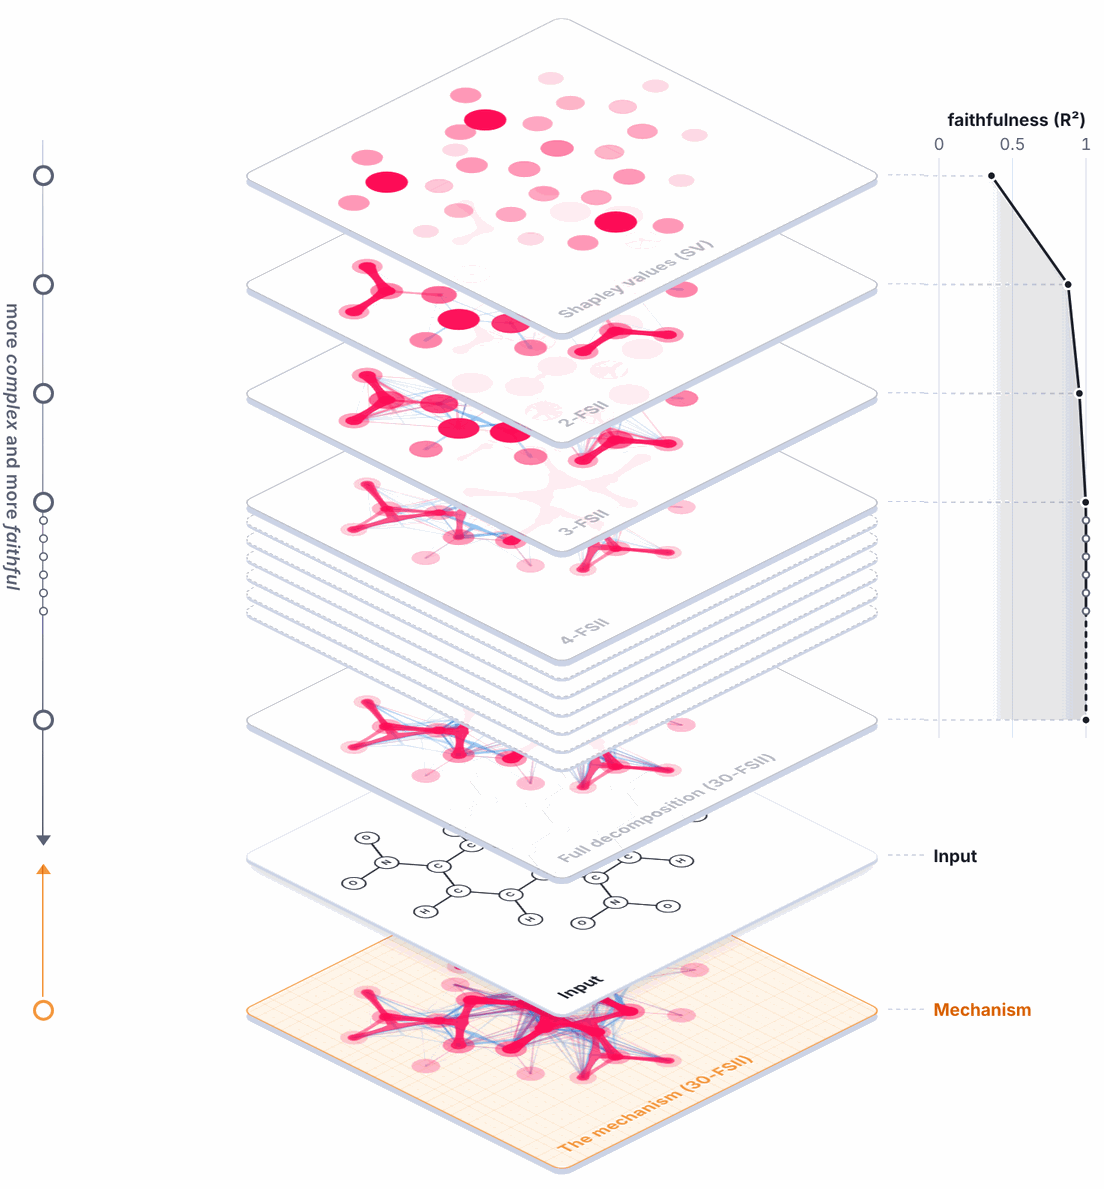
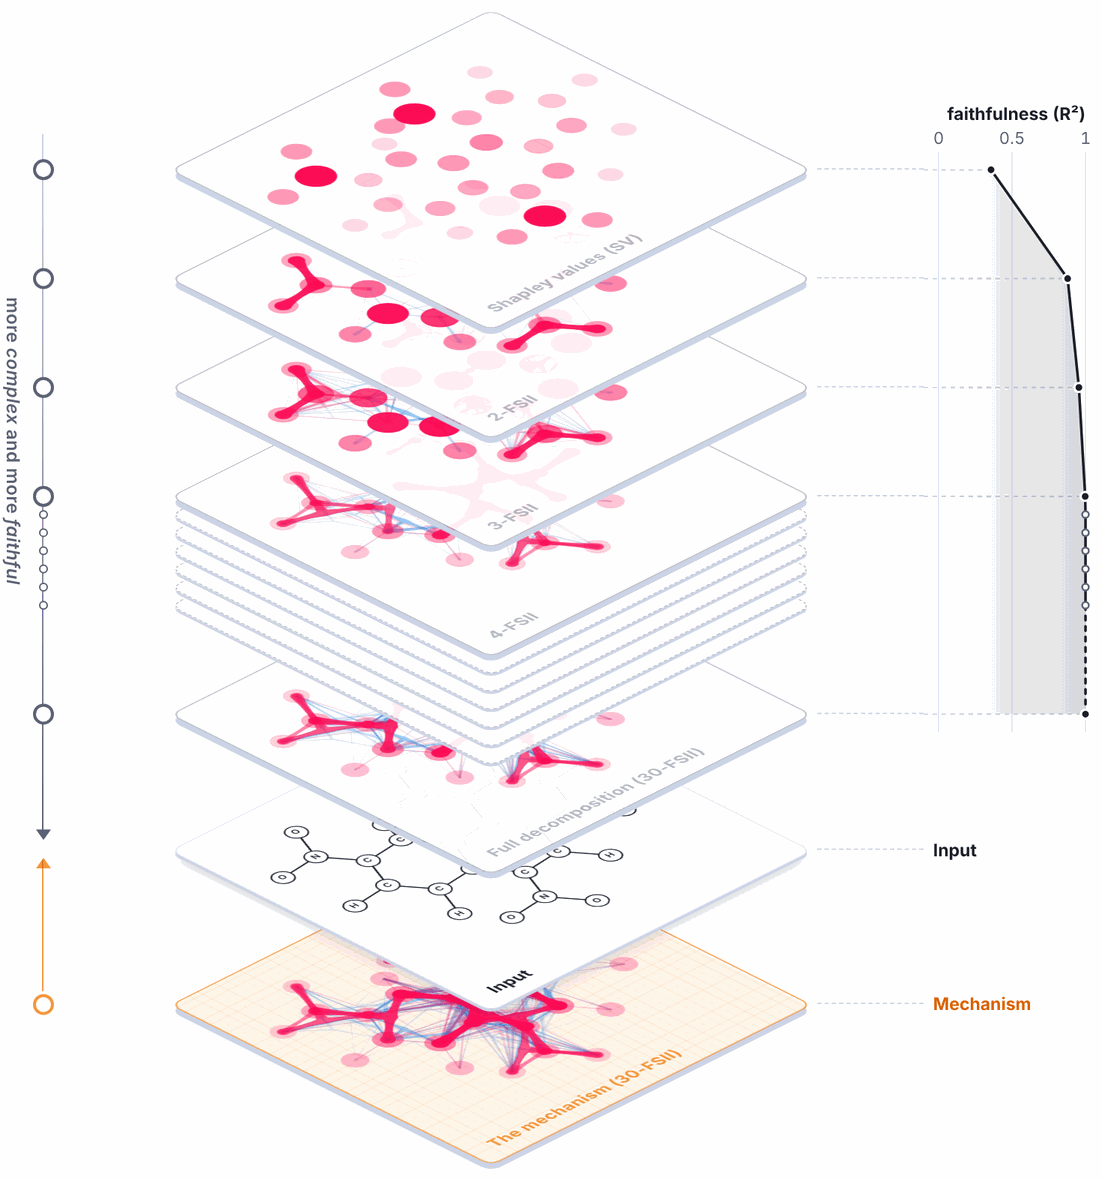
Make the projected view the default; name the layer pointed at in ink
The orders demo now shows the projected view by default: the layers lie
on the input's card until explained, then float, and the one pointed at
casts its explanation onto the input. The slide-out view stays, as
data-view="unfolded". The fallback image shows the projected view.

The layer pointed at writes its name in ink, as the input does (the
mechanism's in its orange), not in the layers' faint gray.

Claude-Session: https://claude.ai/code/session_019qiuyEoqTxUYBXqUZ7PZqM

diff --git a/docs/source/demos/orders/assets/demo.js b/docs/source/demos/orders/assets/demo.js
@@ -26,14 +26,14 @@
 // depth, the network's receptive field, the proxy's depth) all equal it. The explanations are
 // precomputed (../compute) into data.js.
 //
-// Two views (data-view on the demo). Unfolded (the default, as the docs show it), the layers float
-// apart, and pointing at one (hover, keyboard focus on its row, a tap that pins it, or the slider
-// left of the layers) slides it out to the side as it lies, under the layers above it; the card
-// slides out too, pointed at. Projected ("projected"), the layers lie on the card at rest (the top
-// one showing, on the input), the mechanism hidden under it; once explained and in view (or after a
-// tap), they unfold, for good, and the layer pointed at stays where it floats and casts its light
-// onto the card, which wears its marks (the mechanism's rises to it, a box of orange light). In
-// both, the others fade; a ring marks the order pointed at on the plot, and pointing along the plot
+// Two views (data-view on the demo). Projected (the default, as the docs show it), the layers lie on
+// the card at rest (the top one showing, on the input), the mechanism hidden under it; once
+// explained and in view (or after a tap), they unfold, for good, and the layer pointed at (hover,
+// keyboard focus on its row, a tap that pins it, or the slider left of the layers) stays where it
+// floats and casts its light onto the card, which wears its marks (the mechanism's rises to it, a
+// box of orange light), and its name darkens. Unfolded ("unfolded"), the layers float apart, and
+// pointing at one slides it out to the side as it lies, under the layers above it. In both, the
+// others fade; a ring marks the order pointed at on the plot, and pointing along the plot
 // brings out the layer of an order, or the blank layer of an order between, which peeks out. The
 // slider is an arrow down the side of the layers, a circle at every one, through the explanations:
 // they grow more complex, and more faithful, from order to order; below the input, the mechanism's
@@ -628,11 +628,11 @@
     const plotId = ++plots;
     // the views (data-view), both of floating layers: the input on a card, the explanations on
     // layers above it, and below the card, apart from the full decomposition, the mechanism they
-    // explain. Unfolded (the default, as the docs show it), the layers float apart, and the one
-    // pointed at (or the input's card) slides out to the side. Projected ("projected"), they lie on
-    // the card at rest, the mechanism hidden under it, and unfold, float off it, once explained (or
-    // after a tap on the card), or while a layer is pointed at, which casts its marks onto the card
-    const projecting = () => root.dataset.view === "projected";
+    // explain. Projected (the default, as the docs show it), they lie on the card at rest, the
+    // mechanism hidden under it, and unfold, float off it, once explained (or after a tap on the
+    // card), or while a layer is pointed at, which casts its marks onto the card. Unfolded
+    // ("unfolded"), the layers float apart, and the one pointed at slides out to the side
+    const projecting = () => root.dataset.view !== "unfolded";
     // the demo starts with the problem alone (unless data-reveal="open"): a click on the model's chip
     // explains it, and the explanation is built under it, from the top down; once explained, every
     // example is. A step shows its part at once (the problem's, the problem alone, for good)
@@ -1676,6 +1676,7 @@
         node.style.setProperty("--orders-edge-x", `${roundTo(Math.sin(TURN) * depth, 2)}px`);
         node.style.setProperty("--orders-edge-y", `${roundTo(Math.cos(TURN) * depth, 2)}px`);
         node.classList.toggle("orders-demo-receded", Boolean(target) && !item.base && item !== target);
+        node.classList.toggle("orders-demo-pointed", item === target);
         // (projected, the layers above the one pointed at, through which it shows, unless it is the
         // mechanism, under the card)
         node.classList.toggle("orders-demo-above", Boolean(target) && position < pointedAt && !target.deep);

diff --git a/docs/source/demos/orders/assets/demo.css b/docs/source/demos/orders/assets/demo.css
@@ -1459,7 +1459,7 @@ body[data-theme="dark"] .orders-demo {
   font-weight: 600;
 }
 
-/* -- the floating layers (unfolded, or data-view="projected"): the input on a card, every
+/* -- the floating layers (projected, or data-view="unfolded"): the input on a card, every
    explanation on a layer of paper above it, apart (projected, they lie on the card at rest, and
    float off it, unfold, while open), and below the card the mechanism under it all ------------ */
 
@@ -1478,18 +1478,24 @@ body[data-theme="dark"] .orders-demo {
 
 .orders-demo-layer .orders-demo-tag {
   fill: var(--orders-layer-edge);
+  transition: fill 360ms var(--orders-ease);
+}
+
+/* the layer pointed at: its name in ink, as the input's (the mechanism's in its orange, below) */
+.orders-demo-layer.orders-demo-pointed .orders-demo-tag {
+  fill: var(--orders-ink);
 }
 
 /* while a layer is pointed at, the others' marks fade, as the stack's sheets' do; projected, the
    layer pointed at stays where it floats, and the paper of the layers above it thins, else it would
    veil it */
-.orders-demo[data-view="projected"] .orders-demo-sheet.orders-demo-layer.orders-demo-above {
+.orders-demo:not([data-view="unfolded"]) .orders-demo-sheet.orders-demo-layer.orders-demo-above {
   border-color: color-mix(in srgb, var(--orders-layer-edge), transparent 55%);
   background: color-mix(in srgb, var(--orders-layer-film), transparent 96%);
   box-shadow: none;
 }
 
-.orders-demo[data-view="projected"] .orders-demo-above .orders-demo-face {
+.orders-demo:not([data-view="unfolded"]) .orders-demo-above .orders-demo-face {
   opacity: 0.1;
 }
 
@@ -1598,6 +1604,10 @@ body[data-theme="dark"] .orders-demo {
   fill: var(--orders-mech-edge);
 }
 
+.orders-demo-deep.orders-demo-pointed .orders-demo-tag {
+  fill: var(--orders-mech-ink);
+}
+
 /* 2^n, the terms the mechanism could have */
 .orders-demo-power sup {
   margin-left: 0.05em;
@@ -1622,11 +1632,11 @@ body[data-theme="dark"] .orders-demo {
 }
 
 /* at rest, under the card: only its edge shows below the card's */
-.orders-demo[data-view="projected"]:not(.orders-demo-open) .orders-demo-layer.orders-demo-deep {
+.orders-demo:not([data-view="unfolded"]):not(.orders-demo-open) .orders-demo-layer.orders-demo-deep {
   opacity: 1;
 }
 
-.orders-demo[data-view="projected"]:not(.orders-demo-open) .orders-demo-deep .orders-demo-face {
+.orders-demo:not([data-view="unfolded"]):not(.orders-demo-open) .orders-demo-deep .orders-demo-face {
   opacity: 0;
 }
 

diff --git a/docs/source/demos/orders/index.rst b/docs/source/demos/orders/index.rst
@@ -27,10 +27,10 @@ of players its own value, the Möbius transform :cite:p:`Grabisch.1999`; for tre
 of order 5, which already is. Below the card lies the **mechanism** they explain, the model itself.
 Red raises the prediction, blue lowers it; the larger and the more opaque, the stronger. The slider
 left of the layers, an arrow down, points to the more complex and more faithful explanations: every
-order below has more values, and fits the model more closely (see the fit, below). Point at a layer
-to slide it out, or drag the slider's handle down through the orders (on a touch screen, tap a
-layer, drag the handle, or tap an order on the plot); the orange handle below them, on its arrow up
-to the input, brings out the mechanism. Where the examples do not fit in a row, as on a phone, the
+order below has more values, and fits the model more closely (see the fit, below). Point at a layer,
+or drag the slider's handle down through the orders (on a touch screen, tap a layer, drag the
+handle, or tap an order on the plot), and it casts its explanation down onto the input, in green
+light; the orange handle below them, on its arrow up to the input, casts the mechanism up onto it. Where the examples do not fit in a row, as on a phone, the
 arrows above the layers, or a swipe across them, step from one example to the next.
 
 Above the layers, the problem: the input :math:`x` wired through the model :math:`f`, a chip (black
